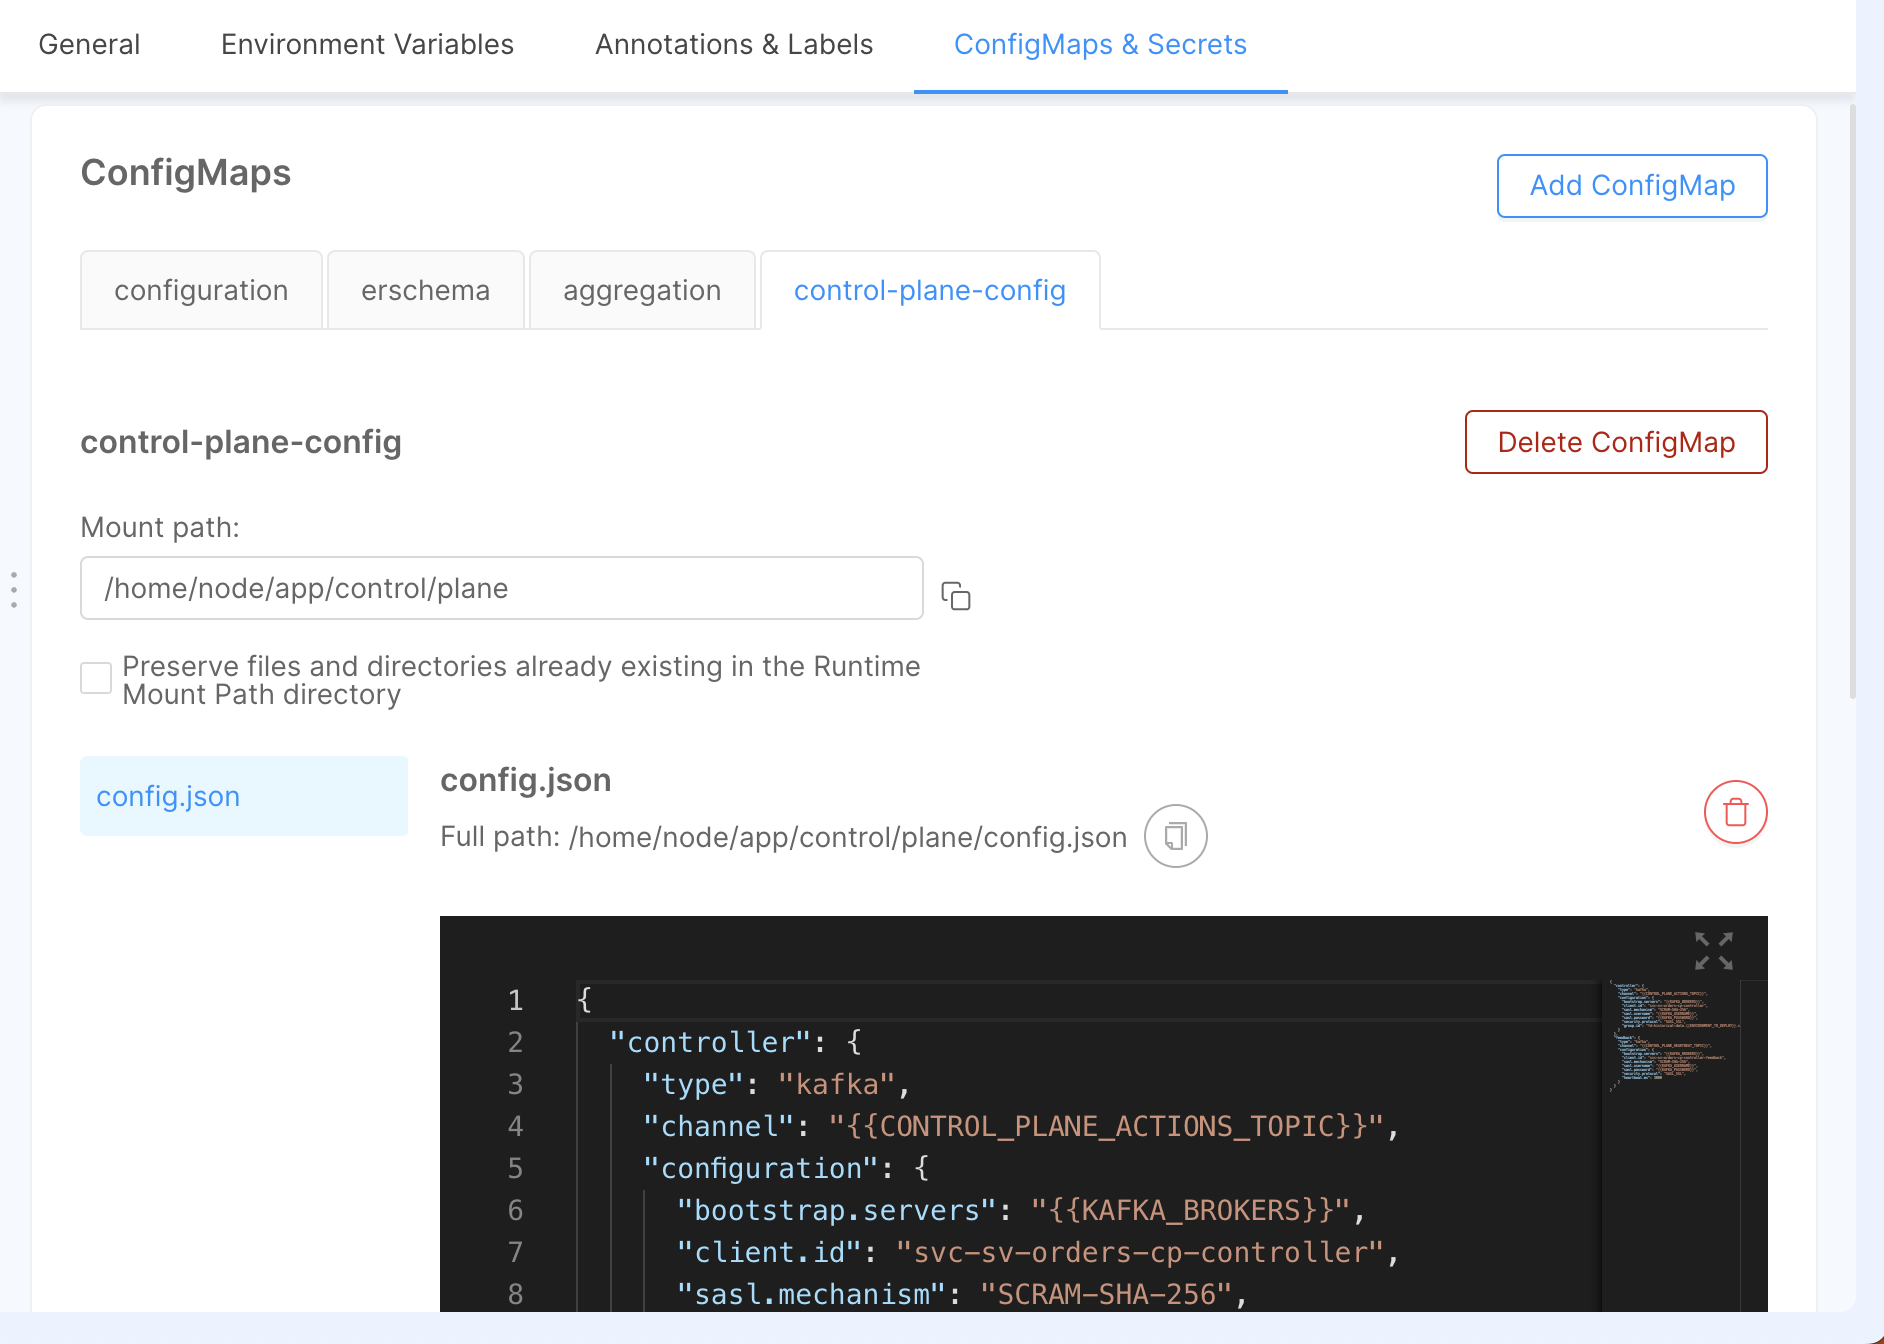
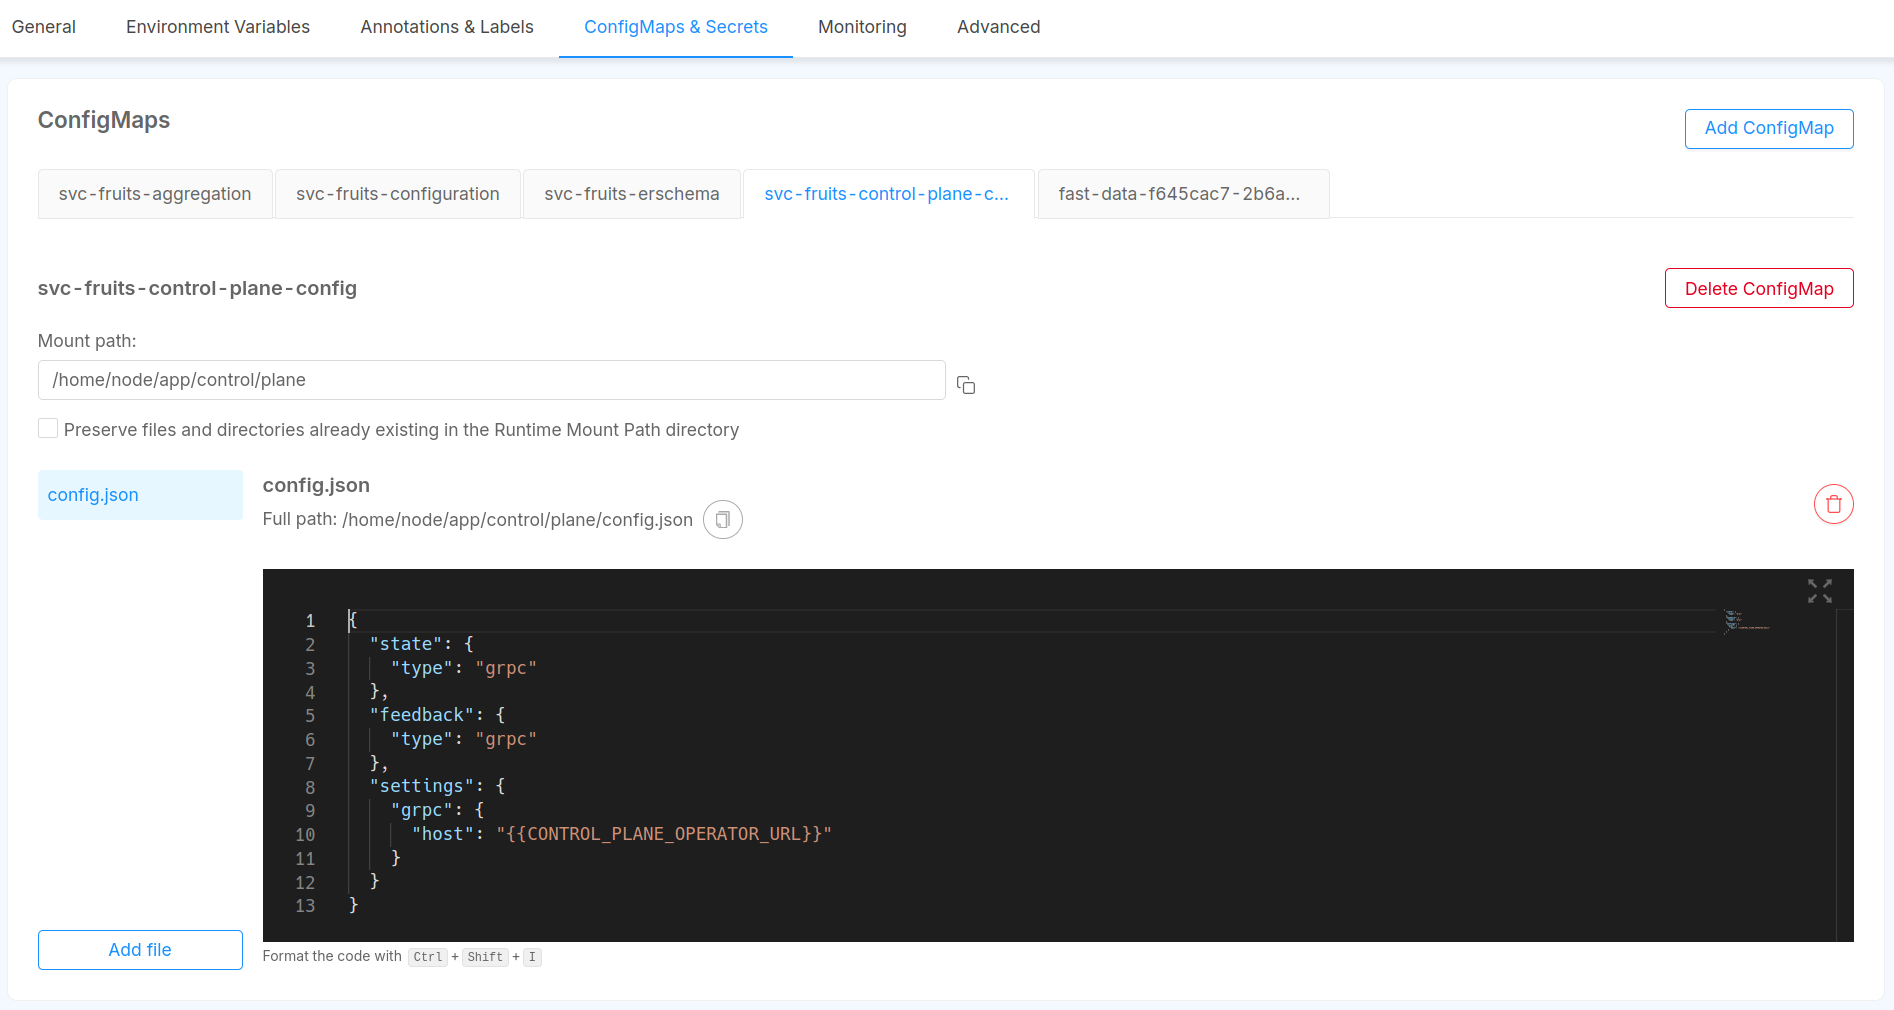
docs(control-plane): remove kafka configuration in workloads runtime management config

diff --git a/docs/fast_data/configuration/projection_storer.md b/docs/fast_data/configuration/projection_storer.md
@@ -739,7 +739,7 @@ defined cast function.
 
 ### Runtime Management Config
 
-Starting from version `v1.1.0` of Projection Storer service it is possible to instruct it to `pause` and `resume` the
+Starting from version `v1.1.1` of Projection Storer service it is possible to instruct it to `pause` and `resume` the
 consumption of change events from ingestion topics. This feature is enabled by specifying the Control Plane configuration
 in [the dedicated section](/fast_data/runtime_management/workloads.mdx?workload=ps#projection-storer) of the configuration page.
 
@@ -751,7 +751,7 @@ provide the corresponding feedback back to the Control Plane service.
 By design, every service interacting with the Control Plane starts up in a `paused` state, unless the Control Plane
 has already resumed the data stream before.
 
-Therefore, when the Projection Storer starts up, <u>consumption from ingestion topics will not start automatically</u>.
+Therefore, when the Projection Storer starts up, **<u>consumption from ingestion topics will not start automatically</u>**.
 
 In this case, you just need to [send a `resume` command](/fast_data/runtime_management/control_plane_frontend.mdx#pause-and-resume)
 to one of the projections managed by the Projection Storer.
@@ -763,8 +763,8 @@ the top level in the configuration file is identified by the `controlPlane` prop
 #### State
 
 This field describe which communication protocol is employed for receiving the Fast Data _state_ from the
-Fast Data Control Plane instance. This can happen directly via [GRPC](https://grpc.io/) or indirectly via
-a topic on a Kafka broker. Here are detailed the fields to be configured depending on the selected communication protocol.
+Fast Data Control Plane Operator instance. Currently, state changes can be received via [GRPC](https://grpc.io/).
+Here are detailed the fields to be configured depending on the selected communication protocol.
 
 ##### GRPC
 
@@ -773,38 +773,12 @@ a topic on a Kafka broker. Here are detailed the fields to be configured dependi
 | `type`          | `string` | &check;  |         |
 
 When `type` is set to `grpc` then no further configuration under this field is needed by the service.
-
-:::info
-GRPC communication protocol support is available since version `v1.1.1` of Projection Storer
-:::
-
-##### Kafka
-
-| Property        | Type     | Required | Default |
-|-----------------|----------|----------|---------|
-| `type`          | `string` | &check;  |         |
-| `channel`       | `string` | &check;  |         |
-| `configuration` | `object` | &check;  |         |
-
-When `type` is set to `kafka` then it is necessary to specify from which `channel`, that is the Kafka topic,
-Fast Data state events should be read and the Kafka configuration properties to be passed to the [Kafka Consumer](https://kafka.apache.org/documentation/#consumerconfigs).
-
-:::caution
-In order to guarantee global order on Fast Data states emitted by Fast Data Control Plane instance, configured
-topic must have a single partition, from which all the Fast Data services will read the current state to be applied.
-:::
-
-:::note
-The following Kafka Consumer properties cannot be customized by the user, since are managed by the service:
-- `key.deserializer`
-- `value.deserializer`
-:::
 
 #### Feedback
 
 This field describe which communication protocol is employed for sending a _feedback_ as heartbeat to the
-Fast Data Control Plane instance. This can happen directly via [GRPC](https://grpc.io/) or indirectly via
-a topic on a Kafka broker. Here are detailed the fields to be configured depending on the selected communication protocol.
+Fast Data Control Plane Operator instance. Currently, feedback emission is supported via [GRPC](https://grpc.io/).
+Here are detailed the fields to be configured depending on the selected communication protocol.
 
 ##### GRPC
 
@@ -813,30 +787,6 @@ a topic on a Kafka broker. Here are detailed the fields to be configured dependi
 | `type`          | `string` | &check;  |         |
 
 When `type` is set to `grpc` then no further configuration under this field is needed by the service.
-
-:::info
-GRPC communication protocol support is available since version `v1.1.1` of Projection Storer
-:::
-
-##### Kafka
-
-| Property        | Type     | Required | Default |
-|-----------------|----------|----------|---------|
-| `type`          | `string` | &check;  |         |
-| `channel`       | `string` | &check;  |         |
-| `configuration` | `object` | &check;  |         |
-
-When `type` is set to `kafka` then it is necessary to specify on which `channel`, that is the Kafka topic,
-service feedback events should be produced and the Kafka configuration properties to be passed
-to the [Kafka Producer](https://kafka.apache.org/documentation/#producerconfigs).
-
-:::note
-The following Kafka Producer properties cannot be customized by the user, since are managed by the service:
-- `acks`
-- `enable.idempotence`
-- `key.deserializer`
-- `value.deserializer`
-:::
 
 #### Shared Settings
 
@@ -846,7 +796,7 @@ The following Kafka Producer properties cannot be customized by the user, since 
 
 The property `settings` under the Control Plane `settings` field contains a set of configurations that are shared by both
 `state` and `feedback` components. In particular, there is a property `grpc` that allows to specify the `host` and the
-`port` of the Fast Data Control Plane instance that expose the GRPC server.
+`port` of the Fast Data Control Plane Operator instance that expose the GRPC server.
 
 ---
 
@@ -856,18 +806,11 @@ the configuration panel is shown in the screenshot here:
 
 ![control plane panel in projection storer config page](img/projection_storer_control_plane.png)
 
-Below are provided three examples of how Control Plane settings can be configured for the Projection Storer service. These
-are:
-
-- GRPC feedback loop: both Fast Data _state_ and service _feedback_ transit over GRPC communication protocol. This is the
-**recommended** configuration, since it is better suited for this kind of inter-service communication and it does not require
-any additional external resource.
-- Kafka feedback loop: both Fast Data _state_ and service _feedback_ transit between services as Kafka messages
-- Kafka + GRPC feedback loop: Fast Data _state_ is read from a Kafka topic as a message while and service _feedback_ is
-sent directly to the Fast Data Control Plane instance via GRPC.
+Below is provided an examples of how Control Plane settings can be configured for the Projection Storer service. In particular,
+this leverage a GRPC bidirectional stream as feedback loop, where both Fast Data _state_ and service _feedback_ transit over GRPC communication protocol.
 
 <details><summary>Control Plane Configuration | GRPC feedback loop</summary>
-This configuration enables both state and feedback component to connect to the GRPC server on the Fast Data Control Plane instance.
+This configuration enables both state and feedback component to connect to the GRPC server on the Fast Data Control Plane Operator instance.
 <p>
 
 ```json
@@ -881,90 +824,7 @@ This configuration enables both state and feedback component to connect to the G
     },
     "settings": {
       "grpc": {
-        "host": "<fd-control-plane-k8s-service-name>",
-        "port": 50051
-      }
-    }
-  },
-  "bindings": {
-    ...
-  }
-}
-```
-
-</p>
-</details>
-
-<details><summary>Control Plane Configuration | Kafka feedback loop</summary>
-<p>
-
-```json
-"controlPlane": {
-  "settings": {
-    "state": {
-      "type": "kafka",
-      "channel": "<control-plane-state-topic>",
-      "configuration": {
-        "client.id": "galaxy.fast-data.DEV.inventory-projection-storer-state",
-        "bootstrap.servers": "localhost:9092",
-        "group.id": "galaxy.fast-data.DEV.inventory-projection-storer-control-plane",
-        /* the following properties define the authentication parameters - please update or remove them after copying the example config */
-        "sasl.jaas.config": "org.apache.kafka.common.security.scram.ScramLoginModule required username=\"<username>\" password=\"<password>\";",
-        "sasl.mechanism": "SCRAM-SHA-256",
-        "security.protocol": "SASL_SSL",
-        "max.poll.records": 1000,
-        "max.poll.timeout": 1000
-      }
-    },
-    "feedback": {
-      "type": "kafka",
-      "channel": "<control-plane-feedback-topic>",
-      "configuration": {
-        "client.id": "galaxy.fast-data.DEV.inventory-projection-storer-feedback",
-        "bootstrap.servers": "localhost:9092",
-        /* the following properties define the authentication parameters - please update or remove them after copying the example config */
-        "sasl.jaas.config": "org.apache.kafka.common.security.scram.ScramLoginModule required username=\"<username>\" password=\"<password>\";",
-        "sasl.mechanism": "SCRAM-SHA-256",
-        "security.protocol": "SASL_SSL"
-      }
-    }
-  },
-  "bindings": {
-    ...
-  }
-}
-```
-
-</p>
-</details>
-
-<details><summary>Control Plane Configuration | Kafka+GRPC feedback loop</summary>
-<p>
-
-```json
-"controlPlane": {
-  "settings": {
-    "state": {
-      "type": "kafka",
-      "channel": "<control-plane-state-topic>",
-      "configuration": {
-        "client.id": "galaxy.fast-data.DEV.inventory-projection-storer-state",
-        "bootstrap.servers": "localhost:9092",
-        "group.id": "galaxy.fast-data.DEV.inventory-projection-storer-control-plane",
-        /* the following properties define the authentication parameters - please update or remove them after copying the example config */
-        "sasl.jaas.config": "org.apache.kafka.common.security.scram.ScramLoginModule required username=\"<username>\" password=\"<password>\";",
-        "sasl.mechanism": "SCRAM-SHA-256",
-        "security.protocol": "SASL_SSL",
-        "max.poll.records": 1000,
-        "max.poll.timeout": 1000
-      }
-    },
-    "feedback": {
-      "type": "grpc"
-    },
-    "settings": {
-      "grpc": {
-        "host": "<fd-control-plane-k8s-service-name>",
+        "host": "<control-plane-operator-service-name>",
         "port": 50051
       }
     }
